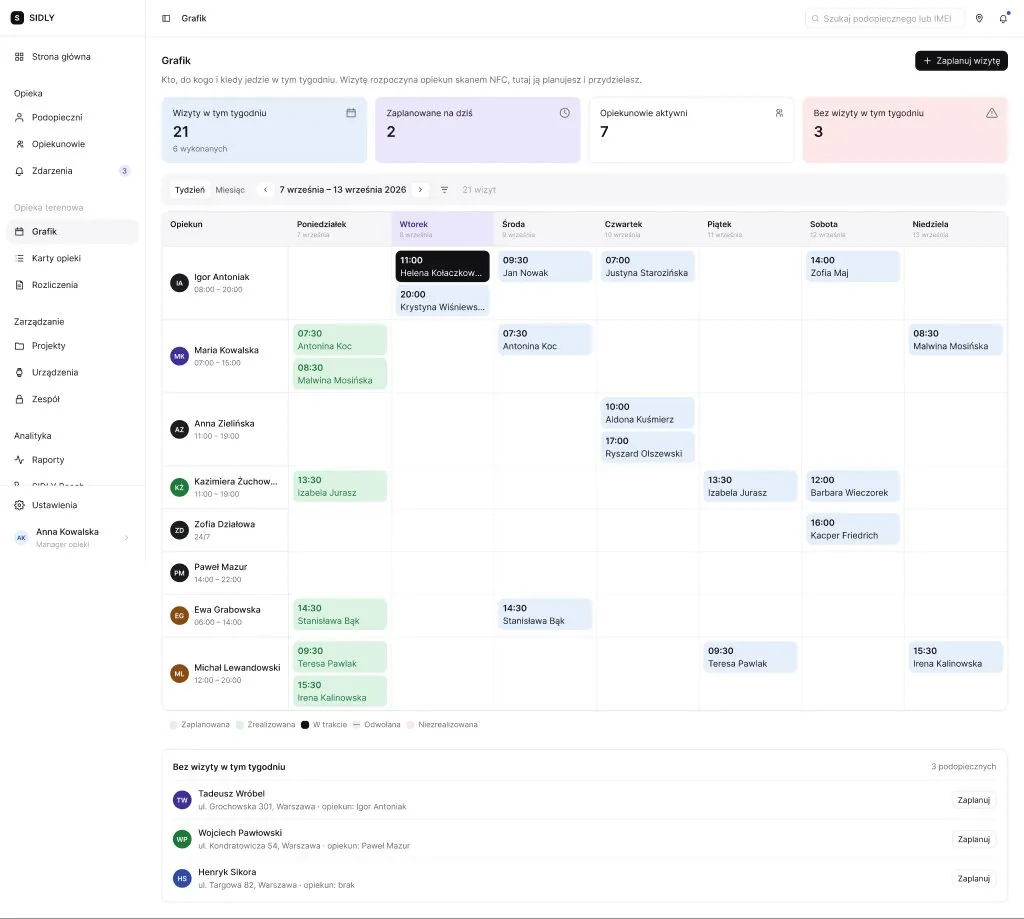
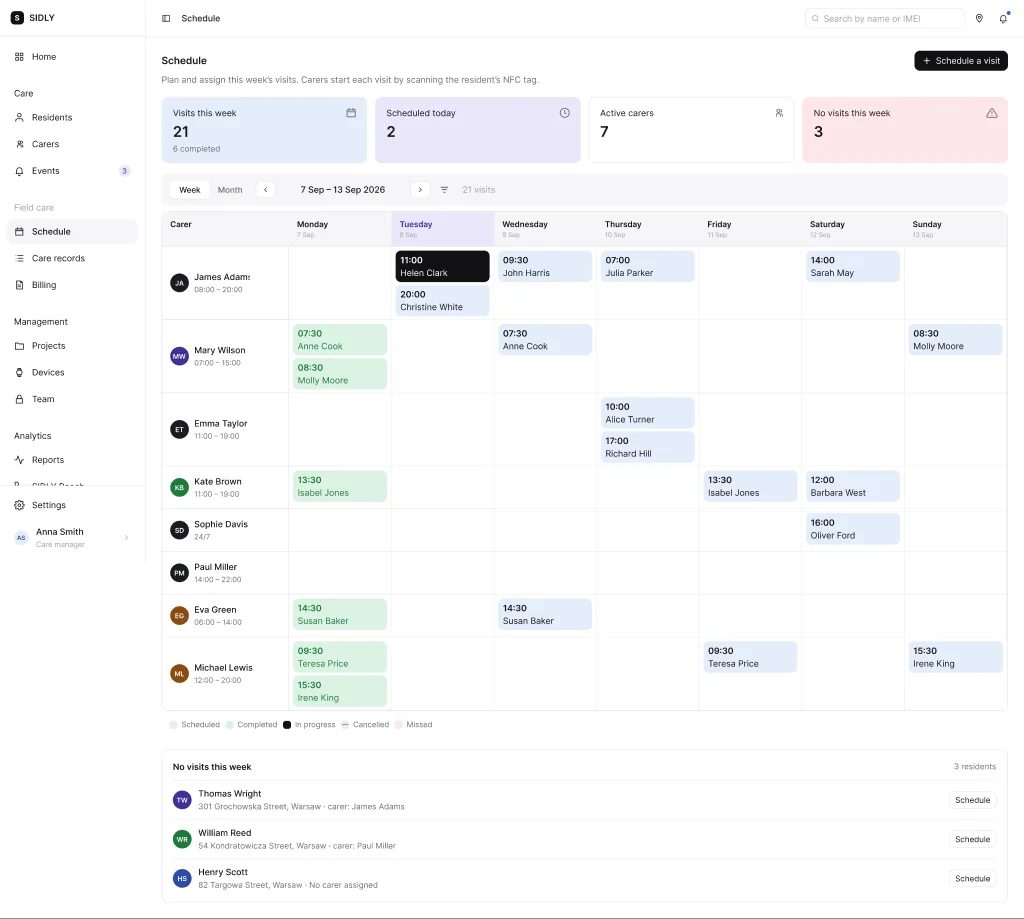
SiDLY Health web screens in English from Figma

diff --git a/work/sidly-health/index.html b/work/sidly-health/index.html
@@ -2,7 +2,7 @@
 <html lang="en" data-view="design" data-theme="light">
 <head>
 <meta charset="utf-8">
-<meta name="build" content="1792389583">
+<meta name="build" content="1792390168">
 <script>
 /* GitHub Pages lets browsers keep the page for 10 minutes; if a newer build is live, reload once to get it. */
 (function(){try{var b=document.querySelector('meta[name="build"]').content;fetch('/version.txt?'+Date.now(),{cache:'no-store'}).then(function(r){return r.ok?r.text():''}).then(function(v){v=(v||'').trim();if(v&&v!==b&&!sessionStorage.getItem('ks-rl-'+v)){sessionStorage.setItem('ks-rl-'+v,'1');location.reload()}}).catch(function(){})}catch(e){}})();
@@ -67,7 +67,7 @@
 <section class="cp-sec" id="the-care-manager-s-mobile-app" data-rail="The care manager&#x27;s mobile app"><h2 class="reveal">The care manager's mobile app</h2><p class="cp-lead reveal">Care managers run their team from the phone as much as from the desk. This flow covers the carers: who they look after, when they work and what they can access.</p><div class="phones"><figure class="phone reveal"><div class="device"><img decoding="async" src="../../assets/health/mgr-carers.webp" alt="Carers screen" loading="lazy" width="393" height="851"></div><figcaption><b>Carers</b>Who is on the team, who is active and when each person works today.</figcaption></figure><figure class="phone reveal"><div class="device"><img decoding="async" src="../../assets/health/mgr-profile.webp" alt="Carer profile" loading="lazy" width="393" height="851"></div><figcaption><b>Carer profile</b>Residents, today's hours, today's visits and access, on one screen.</figcaption></figure><figure class="phone reveal"><div class="device"><img decoding="async" src="../../assets/health/mgr-hours.webp" alt="Working hours" loading="lazy" width="393" height="851"></div><figcaption><b>Working hours</b>Set per weekday, with several ranges a day for split shifts.</figcaption></figure><figure class="phone reveal"><div class="device"><img decoding="async" src="../../assets/health/mgr-visits.webp" alt="Today&#x27;s visits" loading="lazy" width="393" height="851"></div><figcaption><b>Today's visits</b>Each visit with its care hours, editable from the list.</figcaption></figure></div></section>
 <section class="cp-sec" id="the-carer-s-planner" data-rail="The carer&#x27;s Planner"><h2 class="reveal">The carer's Planner</h2><p class="cp-lead reveal">Carers use the Planner on their phone during the visit. The flow is built around the scan: a visit starts when the phone touches the resident's tag and ends the same way.</p><div class="phones"><figure class="phone reveal"><div class="device"><img decoding="async" src="../../assets/health/carer-home.webp" alt="Planner home" loading="lazy" width="393" height="851"></div><figcaption><b>Today</b>Time worked so far, filled-in care cards and today's visits.</figcaption></figure><figure class="phone reveal"><div class="device"><img decoding="async" src="../../assets/health/carer-start.webp" alt="Start a visit" loading="lazy" width="393" height="851"></div><figcaption><b>Start a visit</b>Scan the resident's QR code or NFC tag. There is no other way in.</figcaption></figure><figure class="phone reveal"><div class="device"><img decoding="async" src="../../assets/health/carer-nfc.webp" alt="NFC scan" loading="lazy" width="393" height="851"></div><figcaption><b>NFC scan</b>Hold the phone to the resident's band or Planner device.</figcaption></figure><figure class="phone reveal"><div class="device"><img decoding="async" src="../../assets/health/carer-visit.webp" alt="Visit in progress" loading="lazy" width="393" height="851"></div><figcaption><b>Visit in progress</b>Tasks from the care card, ticked off on the spot, with a note for the office.</figcaption></figure></div></section>
 <section class="cp-sec" id="the-resident-s-app" data-rail="The resident&#x27;s app"><h2 class="reveal">The resident's app</h2><p class="cp-lead reveal">The resident sees the same visits from the other side: who came, what was done, and a place to say how it went.</p><div class="phones"><figure class="phone reveal"><div class="device"><img decoding="async" src="../../assets/health/res-home.webp" alt="Resident home" loading="lazy" width="393" height="851"></div><figcaption><b>Home</b>The band, recent visits and today's readings on one screen.</figcaption></figure><figure class="phone reveal"><div class="device"><img decoding="async" src="../../assets/health/res-history.webp" alt="Visit history" loading="lazy" width="393" height="851"></div><figcaption><b>Visit history</b>Every visit with its carer, tasks done and rating.</figcaption></figure><figure class="phone reveal"><div class="device"><img decoding="async" src="../../assets/health/res-rate.webp" alt="Rate a visit" loading="lazy" width="393" height="851"></div><figcaption><b>Rate a visit</b>Stars for each task and for the visit, plus the carer's note.</figcaption></figure><figure class="phone reveal"><div class="device"><img decoding="async" src="../../assets/health/res-health.webp" alt="Health readings" loading="lazy" width="393" height="851"></div><figcaption><b>Health readings</b>Pulse, saturation and steps from the band, in large type.</figcaption></figure></div></section>
-<section class="cp-sec" id="the-web-platform" data-rail="The web platform"><h2 class="reveal">The web platform</h2><p class="cp-lead reveal">At the desk the same data gets more room. The manager plans and settles the team's work, carers follow their visits from a laptop, and residents see their own record.</p><div class="shots"><figure class="shot reveal"><div class="browser"><img decoding="async" src="../../assets/health/web-dashboard.webp" alt="Manager&#x27;s dashboard" loading="lazy"></div><figcaption><b>Manager's dashboard</b>What needs a reaction comes first, then the carers in the field today and the week's visits.</figcaption></figure><figure class="shot reveal"><div class="browser"><img decoding="async" src="../../assets/health/web-schedule.webp" alt="Weekly schedule" loading="lazy"></div><figcaption><b>Schedule</b>A week per carer, with the residents who have no visit this week listed underneath.</figcaption></figure><figure class="shot reveal"><div class="browser"><img decoding="async" src="../../assets/health/web-visit.webp" alt="Visit in progress" loading="lazy"></div><figcaption><b>Visit in progress</b>The care card mid-visit. Tasks and notes save as they go; the visit ends in the mobile app.</figcaption></figure><figure class="shot reveal"><div class="browser"><img decoding="async" src="../../assets/health/web-res-home.webp" alt="Resident&#x27;s home" loading="lazy"></div><figcaption><b>Resident's home</b>The next visit, a prompt to rate the last one, and who to call.</figcaption></figure></div><p class="note">Mobile screens shown in English for this page; the product ships in Polish. All names and data are test data.</p></section>
+<section class="cp-sec" id="the-web-platform" data-rail="The web platform"><h2 class="reveal">The web platform</h2><p class="cp-lead reveal">At the desk the same data gets more room. The manager plans and settles the team's work, carers follow their visits from a laptop, and residents see their own record.</p><div class="shots"><figure class="shot reveal"><div class="browser"><img decoding="async" src="../../assets/health/web-dashboard.webp" alt="Manager&#x27;s dashboard" loading="lazy"></div><figcaption><b>Manager's dashboard</b>What needs a reaction comes first, then the carers in the field today and the week's visits.</figcaption></figure><figure class="shot reveal"><div class="browser"><img decoding="async" src="../../assets/health/web-schedule.webp" alt="Weekly schedule" loading="lazy"></div><figcaption><b>Schedule</b>A week per carer, with the residents who have no visit this week listed underneath.</figcaption></figure><figure class="shot reveal"><div class="browser"><img decoding="async" src="../../assets/health/web-visit.webp" alt="Visit in progress" loading="lazy"></div><figcaption><b>Visit in progress</b>The care card mid-visit. Tasks and notes save as they go; the visit ends in the mobile app.</figcaption></figure><figure class="shot reveal"><div class="browser"><img decoding="async" src="../../assets/health/web-res-home.webp" alt="Resident&#x27;s home" loading="lazy"></div><figcaption><b>Resident's home</b>The next visit, a prompt to rate the last one, and who to call.</figcaption></figure></div><p class="note">Screens shown in English for this page; the product ships in Polish. All names and data are test data.</p></section>
 <section class="cp-sec" id="key-design-decisions" data-rail="Key design decisions"><h2 class="reveal">Key design decisions</h2><ol class="decisions reveal"><li><details open><summary>A visit starts with a scan</summary><p>The carer starts and ends each visit by scanning the resident's NFC tag with their phone. Work time is recorded as it happened, not as it was planned, and carers' hours are settled from it.</p></details></li><li><details open><summary>The care card has a lifetime</summary><p>Before a visit the care card is the plan. During the visit the carer fills it in. After the visit it becomes the record that the resident and the office read, so it is locked as it was when the visit ended.</p></details></li><li><details open><summary>The resident's home screen answers three questions</summary><p>Am I all right, what do I need to do today, and when is someone coming? Large text, large touch targets, few words, and SOS always on top.</p></details></li><li><details open><summary>Urgent first, then the day</summary><p>The manager's dashboard opens with what needs a reaction, then today's visits in the field, the week ahead and equipment. Each block leads to the screen where that issue gets solved.</p></details></li><li><details open><summary>Recurring visits stay ordinary visits</summary><p>A series is a set of normal visits that share a tag, so any single one can be moved or cancelled without breaking the rest.</p></details></li><li><details open><summary>Prototype in code, not in frames</summary><p>The flows are built as a clickable React/TypeScript prototype with realistic test data, so managers and carers test whole visits instead of single screens.</p></details></li></ol></section>
     <nav class="pn reveal" aria-label="More projects">
       <a class="next prev" href="../funnel-elt/"><span class="label">Previous</span><b>Funnel ELT</b><span class="arrow" aria-hidden="true">←</span></a>

diff --git a/index.html b/index.html
@@ -2,7 +2,7 @@
 <html lang="en" data-view="design" data-theme="light">
 <head>
 <meta charset="utf-8">
-<meta name="build" content="1792389583">
+<meta name="build" content="1792390168">
 <script>
 /* GitHub Pages lets browsers keep the page for 10 minutes; if a newer build is live, reload once to get it. */
 (function(){try{var b=document.querySelector('meta[name="build"]').content;fetch('/version.txt?'+Date.now(),{cache:'no-store'}).then(function(r){return r.ok?r.text():''}).then(function(v){v=(v||'').trim();if(v&&v!==b&&!sessionStorage.getItem('ks-rl-'+v)){sessionStorage.setItem('ks-rl-'+v,'1');location.reload()}}).catch(function(){})}catch(e){}})();
@@ -321,13 +321,13 @@ try{if(!location.hash&&!sessionStorage.getItem('ks-intro')&&!matchMedia('(prefer
     </div>
     <div class="panel" id="p-web" role="tabpanel" aria-labelledby="t-web" hidden>
       <div class="shots">
-        <figure class="shot"><div class="browser"><img decoding="async" src="assets/health/web-dashboard.webp" width="865" height="877" alt="Care manager's dashboard on the web platform" loading="lazy"></div><figcaption><b>Manager's dashboard</b>What needs a reaction comes first, then the carers in the field today and the week's visits.</figcaption></figure>
+        <figure class="shot"><div class="browser"><img decoding="async" src="assets/health/web-dashboard.webp" width="1024" height="877" alt="Care manager's dashboard on the web platform" loading="lazy"></div><figcaption><b>Manager's dashboard</b>What needs a reaction comes first, then the carers in the field today and the week's visits.</figcaption></figure>
         <figure class="shot"><div class="browser"><img decoding="async" src="assets/health/web-schedule.webp" width="1024" height="919" alt="Weekly visit schedule on the web platform" loading="lazy"></div><figcaption><b>Schedule</b>A week per carer, with the residents who have no visit this week listed underneath.</figcaption></figure>
         <figure class="shot"><div class="browser"><img decoding="async" src="assets/health/web-visit.webp" width="1024" height="583" alt="Visit in progress on the carer's web view" loading="lazy"></div><figcaption><b>Visit in progress</b>The care card mid-visit. Tasks and notes save as they go; the visit ends in the mobile app.</figcaption></figure>
         <figure class="shot"><div class="browser"><img decoding="async" src="assets/health/web-res-home.webp" width="1024" height="657" alt="Resident's home screen on the web platform" loading="lazy"></div><figcaption><b>Resident's home</b>The next visit, a prompt to rate the last one, and who to call.</figcaption></figure>
       </div>
     </div>
-    <p class="note">Mobile screens shown in English for this page; the product ships in Polish. All names and data are test data.</p>
+    <p class="note">Screens shown in English for this page; the product ships in Polish. All names and data are test data.</p>
 
     <div class="dec-head sub-h reveal"><h3 style="font-size:1.25rem">Key design decisions</h3><button class="copy" type="button" data-openall>Open all</button></div>
     <ol class="decisions reveal">

diff --git a/work/lemi/index.html b/work/lemi/index.html
@@ -2,7 +2,7 @@
 <html lang="en" data-view="design" data-theme="light">
 <head>
 <meta charset="utf-8">
-<meta name="build" content="1792389583">
+<meta name="build" content="1792390168">
 <script>
 /* GitHub Pages lets browsers keep the page for 10 minutes; if a newer build is live, reload once to get it. */
 (function(){try{var b=document.querySelector('meta[name="build"]').content;fetch('/version.txt?'+Date.now(),{cache:'no-store'}).then(function(r){return r.ok?r.text():''}).then(function(v){v=(v||'').trim();if(v&&v!==b&&!sessionStorage.getItem('ks-rl-'+v)){sessionStorage.setItem('ks-rl-'+v,'1');location.reload()}}).catch(function(){})}catch(e){}})();

diff --git a/work/sidly-erp/index.html b/work/sidly-erp/index.html
@@ -2,7 +2,7 @@
 <html lang="en" data-view="design" data-theme="light">
 <head>
 <meta charset="utf-8">
-<meta name="build" content="1792389583">
+<meta name="build" content="1792390168">
 <script>
 /* GitHub Pages lets browsers keep the page for 10 minutes; if a newer build is live, reload once to get it. */
 (function(){try{var b=document.querySelector('meta[name="build"]').content;fetch('/version.txt?'+Date.now(),{cache:'no-store'}).then(function(r){return r.ok?r.text():''}).then(function(v){v=(v||'').trim();if(v&&v!==b&&!sessionStorage.getItem('ks-rl-'+v)){sessionStorage.setItem('ks-rl-'+v,'1');location.reload()}}).catch(function(){})}catch(e){}})();

diff --git a/work/funnel-elt/index.html b/work/funnel-elt/index.html
@@ -2,7 +2,7 @@
 <html lang="en" data-view="data" data-theme="light">
 <head>
 <meta charset="utf-8">
-<meta name="build" content="1792389583">
+<meta name="build" content="1792390168">
 <script>
 /* GitHub Pages lets browsers keep the page for 10 minutes; if a newer build is live, reload once to get it. */
 (function(){try{var b=document.querySelector('meta[name="build"]').content;fetch('/version.txt?'+Date.now(),{cache:'no-store'}).then(function(r){return r.ok?r.text():''}).then(function(v){v=(v||'').trim();if(v&&v!==b&&!sessionStorage.getItem('ks-rl-'+v)){sessionStorage.setItem('ks-rl-'+v,'1');location.reload()}}).catch(function(){})}catch(e){}})();

diff --git a/work/healthplatform/index.html b/work/healthplatform/index.html
@@ -2,7 +2,7 @@
 <html lang="en" data-view="data" data-theme="light">
 <head>
 <meta charset="utf-8">
-<meta name="build" content="1792389583">
+<meta name="build" content="1792390168">
 <script>
 /* GitHub Pages lets browsers keep the page for 10 minutes; if a newer build is live, reload once to get it. */
 (function(){try{var b=document.querySelector('meta[name="build"]').content;fetch('/version.txt?'+Date.now(),{cache:'no-store'}).then(function(r){return r.ok?r.text():''}).then(function(v){v=(v||'').trim();if(v&&v!==b&&!sessionStorage.getItem('ks-rl-'+v)){sessionStorage.setItem('ks-rl-'+v,'1');location.reload()}}).catch(function(){})}catch(e){}})();

diff --git a/work/unmasked/index.html b/work/unmasked/index.html
@@ -2,7 +2,7 @@
 <html lang="en" data-view="data" data-theme="light">
 <head>
 <meta charset="utf-8">
-<meta name="build" content="1792389583">
+<meta name="build" content="1792390168">
 <script>
 /* GitHub Pages lets browsers keep the page for 10 minutes; if a newer build is live, reload once to get it. */
 (function(){try{var b=document.querySelector('meta[name="build"]').content;fetch('/version.txt?'+Date.now(),{cache:'no-store'}).then(function(r){return r.ok?r.text():''}).then(function(v){v=(v||'').trim();if(v&&v!==b&&!sessionStorage.getItem('ks-rl-'+v)){sessionStorage.setItem('ks-rl-'+v,'1');location.reload()}}).catch(function(){})}catch(e){}})();

diff --git a/work/ux-friction/index.html b/work/ux-friction/index.html
@@ -2,7 +2,7 @@
 <html lang="en" data-view="data" data-theme="light">
 <head>
 <meta charset="utf-8">
-<meta name="build" content="1792389583">
+<meta name="build" content="1792390168">
 <script>
 /* GitHub Pages lets browsers keep the page for 10 minutes; if a newer build is live, reload once to get it. */
 (function(){try{var b=document.querySelector('meta[name="build"]').content;fetch('/version.txt?'+Date.now(),{cache:'no-store'}).then(function(r){return r.ok?r.text():''}).then(function(v){v=(v||'').trim();if(v&&v!==b&&!sessionStorage.getItem('ks-rl-'+v)){sessionStorage.setItem('ks-rl-'+v,'1');location.reload()}}).catch(function(){})}catch(e){}})();

diff --git a/404.html b/404.html
@@ -2,7 +2,7 @@
 <html lang="en">
 <head>
 <meta charset="utf-8">
-<meta name="build" content="1792389583">
+<meta name="build" content="1792390168">
 <script>
 /* GitHub Pages lets browsers keep the page for 10 minutes; if a newer build is live, reload once to get it. */
 (function(){try{var b=document.querySelector('meta[name="build"]').content;fetch('/version.txt?'+Date.now(),{cache:'no-store'}).then(function(r){return r.ok?r.text():''}).then(function(v){v=(v||'').trim();if(v&&v!==b&&!sessionStorage.getItem('ks-rl-'+v)){sessionStorage.setItem('ks-rl-'+v,'1');location.reload()}}).catch(function(){})}catch(e){}})();

diff --git a/scripts/build_projects.py b/scripts/build_projects.py
@@ -160,7 +160,7 @@ P.append(dict(
             ("health/web-schedule.jpg", "Weekly schedule", "Schedule", "A week per carer, with the residents who have no visit this week listed underneath."),
             ("health/web-visit.jpg", "Visit in progress", "Visit in progress", "The care card mid-visit. Tasks and notes save as they go; the visit ends in the mobile app."),
             ("health/web-res-home.jpg", "Resident's home", "Resident's home", "The next visit, a prompt to rate the last one, and who to call.")]),
-            '<p class="note">Mobile screens shown in English for this page; the product ships in Polish. All names and data are test data.</p>',
+            '<p class="note">Screens shown in English for this page; the product ships in Polish. All names and data are test data.</p>',
             lead="At the desk the same data gets more room. The manager plans and settles the team's work, carers follow their visits from a laptop, and residents see their own record."),
         section("Key design decisions", decisions([
             ("A visit starts with a scan", "The carer starts and ends each visit by scanning the resident's NFC tag with their phone. Work time is recorded as it happened, not as it was planned, and carers' hours are settled from it."),
